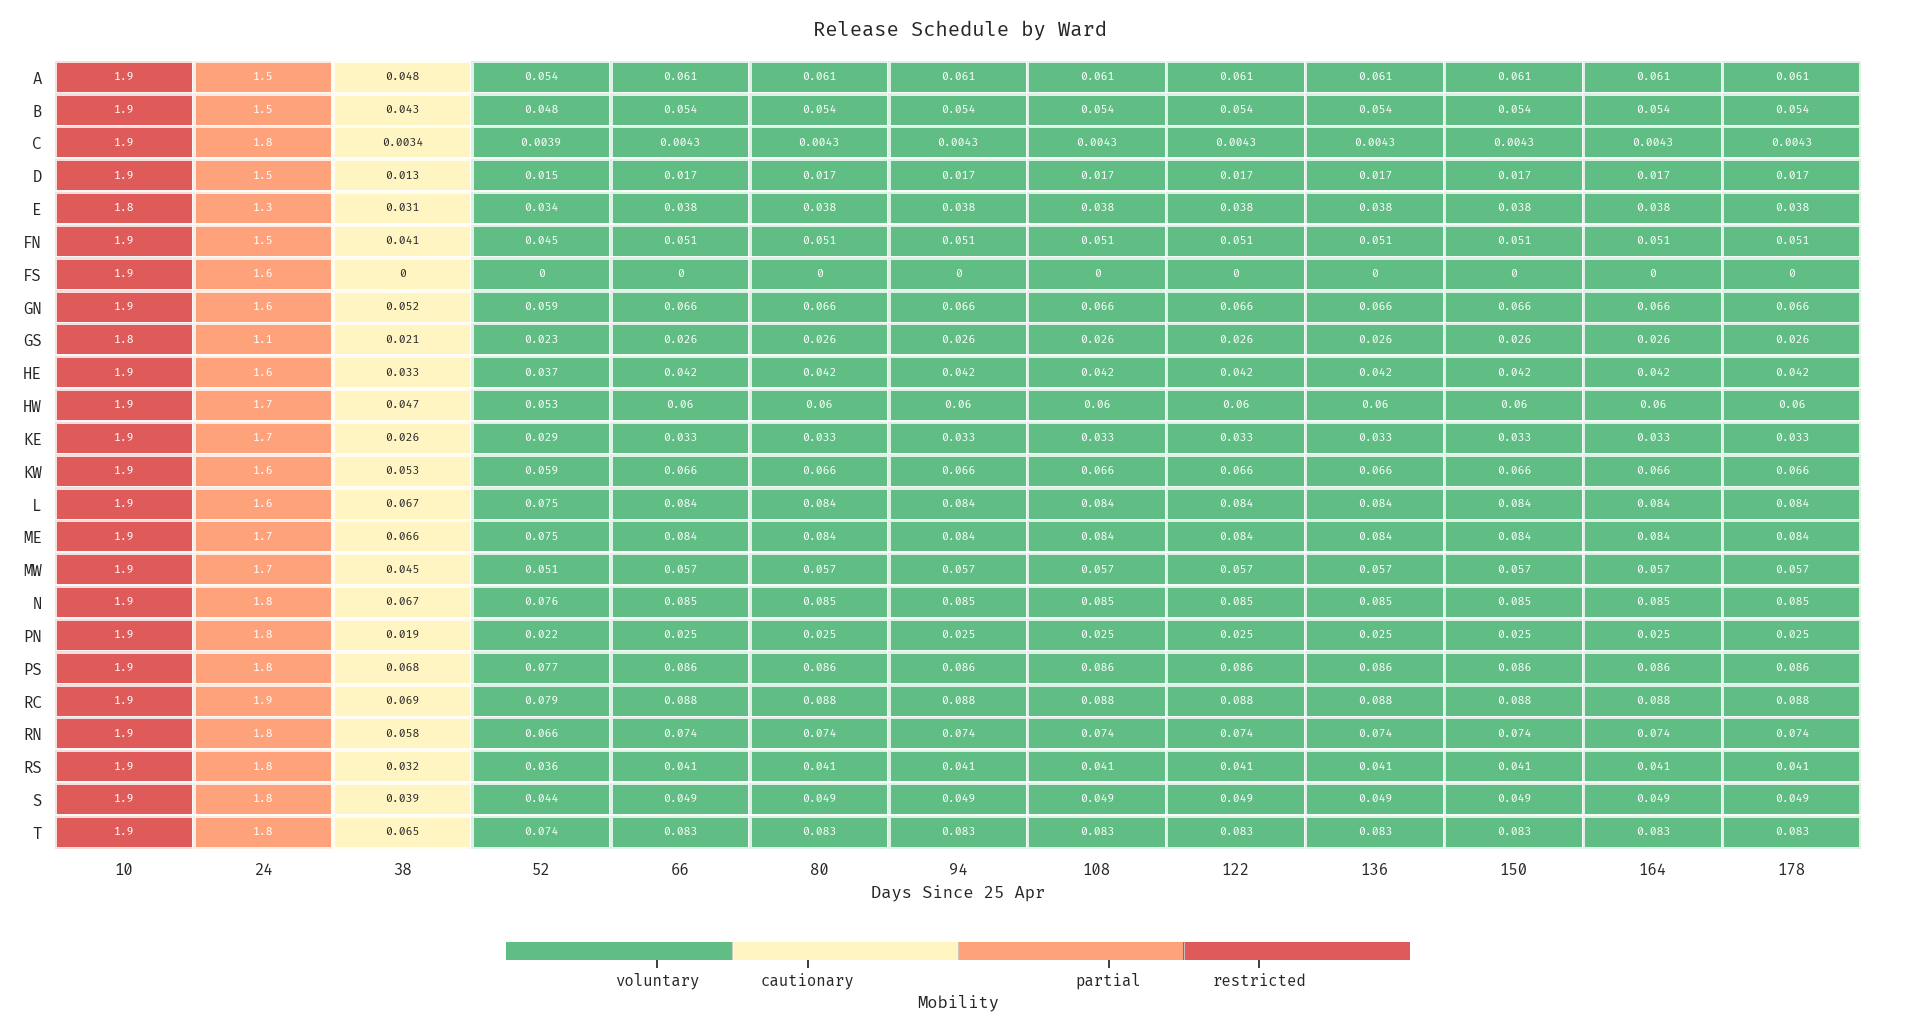
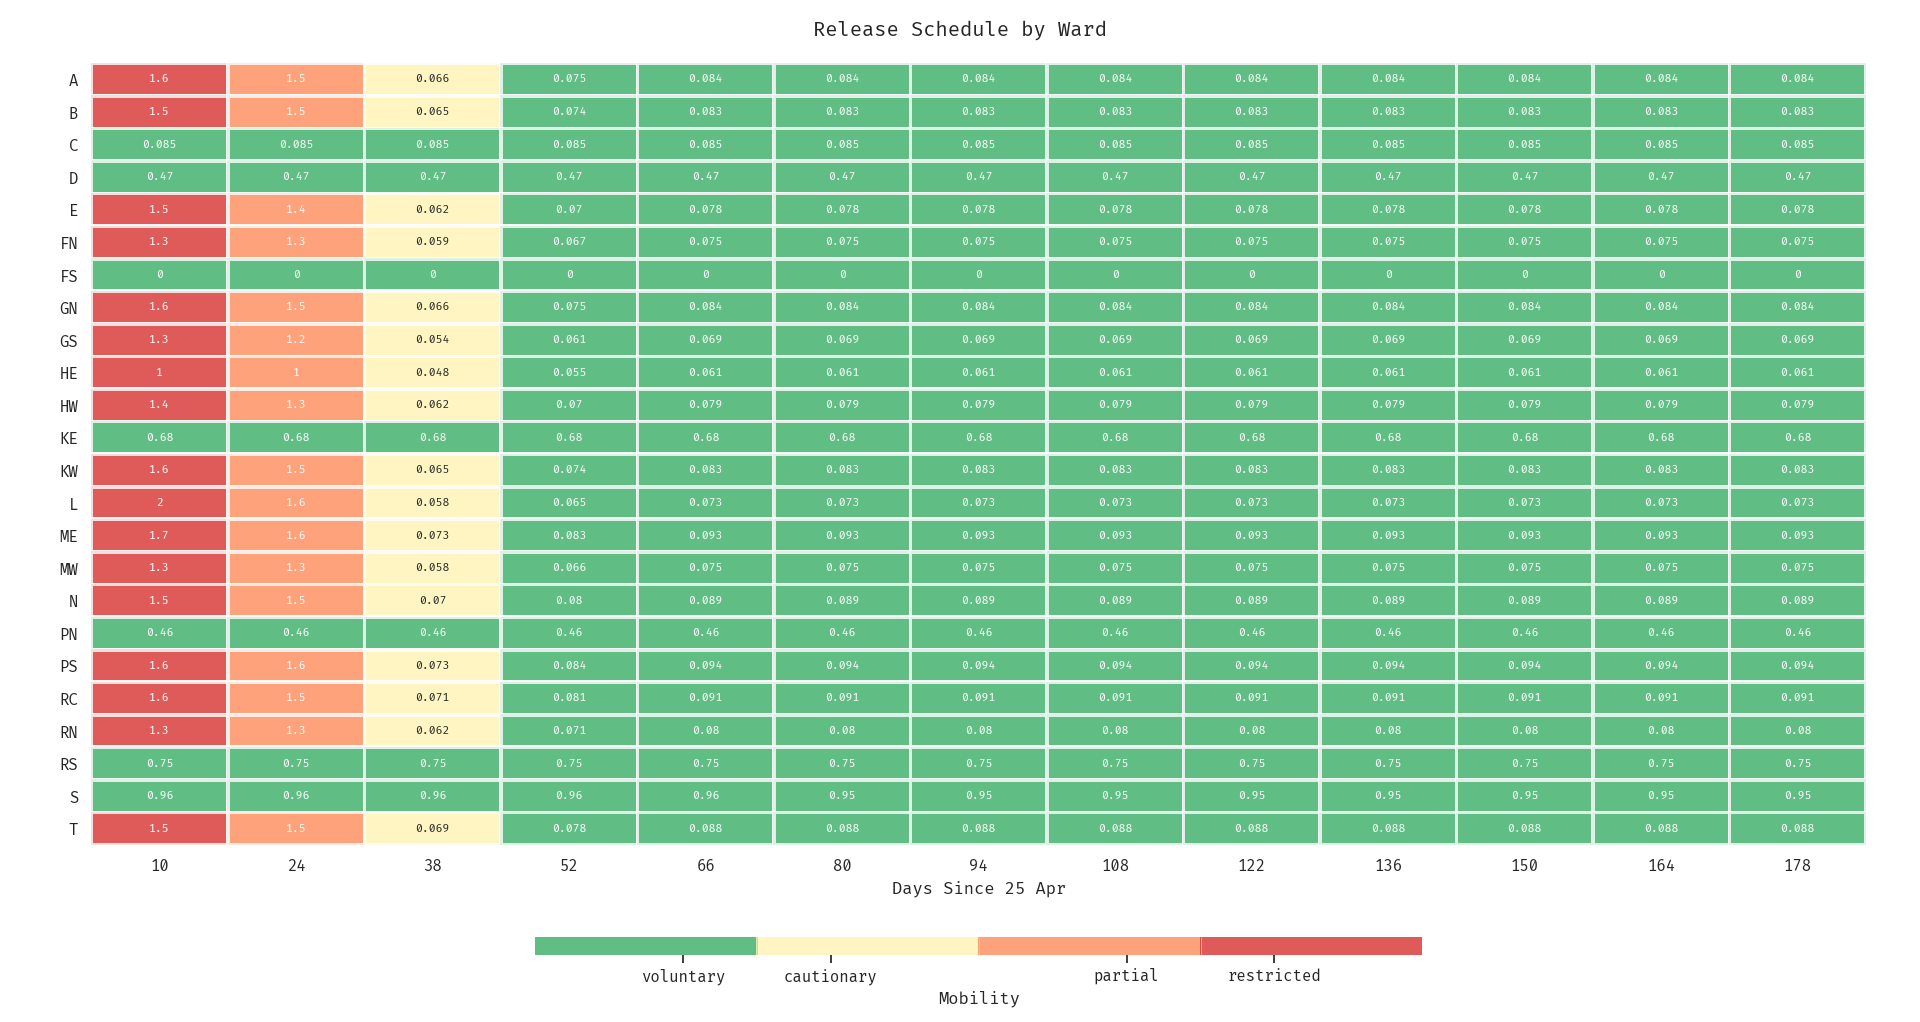
fix param setting in ward-level adaptive controls

Changed region(s): [[0.0, 0.0607, 0.9688, 0.8796], [0.25, 0.91, 0.75, 0.9706], [0.4688, 0.9706, 0.5312, 1.0]]

diff --git a/studies/mumbai_wards/ward_model.py b/studies/mumbai_wards/ward_model.py
@@ -53,7 +53,7 @@ if __name__ == "__main__":
     simulate_lockdown(model_B, 10*days + 4*weeks, 190*days, Rmw, Rvw, lockdown, migrations)
 
     # 10 day lockdown + adaptive controls
-    model_C = model(wards, population_data, ward_cases, seed)
+    model_C = model(wards, population_data, ward_cases, seed).set_parameters(RR0 = Rmw)
     simulate_adaptive_control(model_C, 10*days, 190*days, lockdown, migrations, 
         {ward: Rv * gamma for (ward, Rv) in Rvw.items()},
         {ward: Rm * gamma for (ward, Rm) in Rmw.items()},
